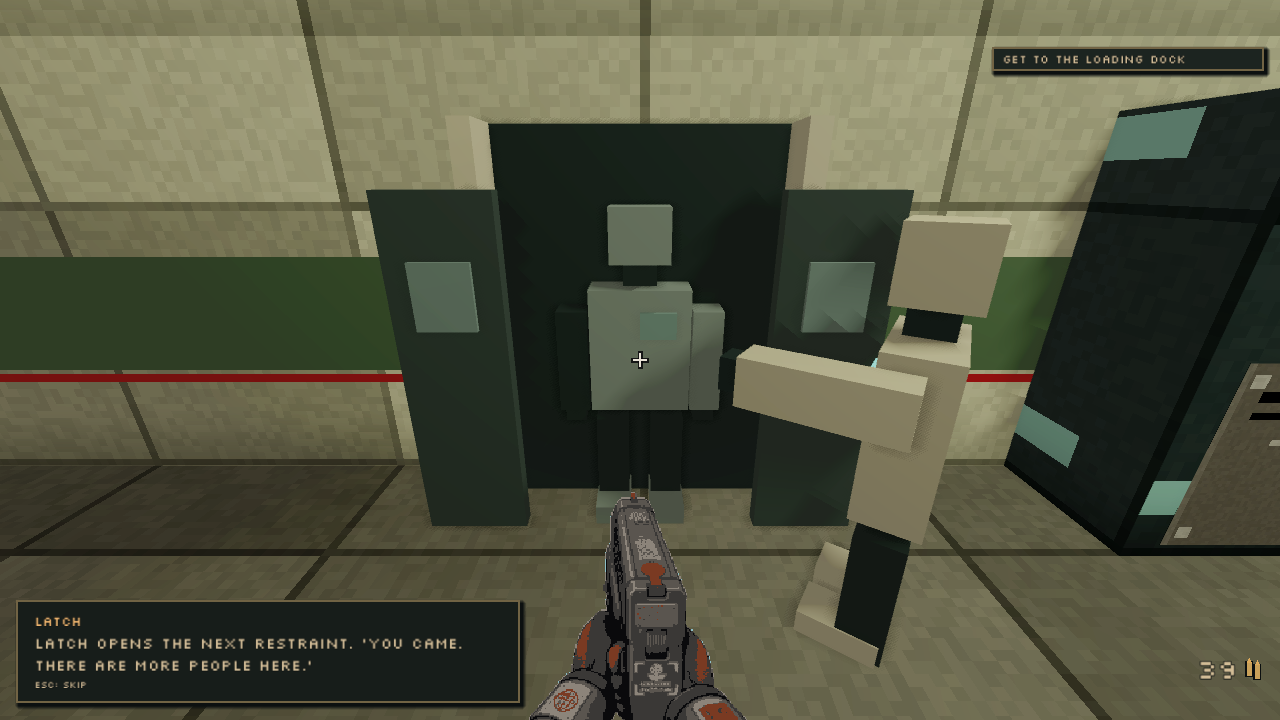
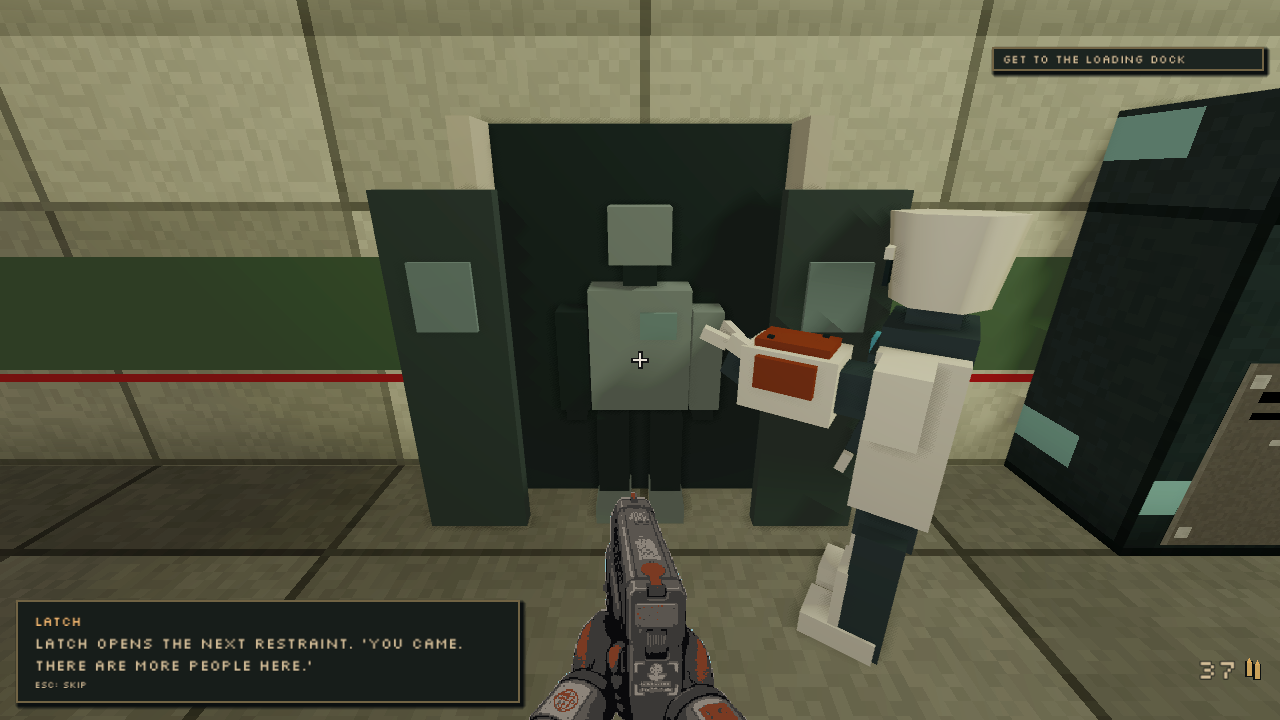
feat: give Latch a distinct repaired silhouette
Use one workshop-aligned renderer for the restrained figure and moving ally, including a voluntary release hand pose. Keep the server-owned handoff, add rendered evidence at encounter distances, and leave distant first-player recognition as an explicit M02 gate.

Changed region(s): [[0.5312, 0.275, 0.8125, 0.9167], [0.9375, 0.9167, 0.9688, 0.9472]]

diff --git a/docs/plans/m02-latch-visual-identity.md b/docs/plans/m02-latch-visual-identity.md
@@ -1,0 +1,73 @@
+# M02 Latch visual identity
+
+**Status:** implemented in draft work, 2026-09-28. Local visual refinement on the stacked M02 development branch. Distant recognition and human perceptual review remain open.
+
+## Goal and reason
+
+Give the fixed ward figure and moving server-owned companion one consistent identity at the restraint, during release, and across the processing floor, then measure its readability from the upper gallery. The current shared `LatchView` is a provisional stack of boxes. Its color alone carries too much identity in distant and muted play.
+
+The design follows [cast continuity](../lore/cast.md#visual-continuity) and the [art bible](../ART_STORY_BIBLE.md): a practical midweight free-agent chassis from the M01 workshop, a compact faceted plain head, worn bone enamel, dark steel joints, one muted-cyan square on the upper chest, and visibly unequal forearms with an individual rust repair on the right. Hands should convey chosen action at the second restraint. The figure must stay distinct from issued Union black plates, red optics and seals.
+
+## Boundaries
+
+- Keep the Rust server authoritative for Latch's identity, location, phase, fire and ward outcome. The client only poses the shared rendered figure.
+- Preserve the existing `LatchView` node paths used by the ward, pawn and checks. Preserve the fixed-to-moving handoff, including skip, retry and late spectators.
+- Keep the current M01 opening image and workshop traits as continuity references. This pass makes no final face, voice, age or new faction claim.
+- No new runtime dependency, paid generation, cloud resource, gameplay logic or README expansion. Spend is $0.
+
+## Implementation
+
+Refine `client/scripts/latch_view.gd` using small Godot-native geometry and registered materials. Work at two scales: a compact silhouette to evaluate at gallery distance, and a repaired plate, hand detail and release gesture readable near the restraint. Reuse that one class in `m02_ward.gd` and `player_pawn.gd`; add presentation-only pose input for the second-bay action if needed. Keep object count and material count bounded for every view.
+
+Add focused Godot checks for material, geometry, handed repair, actor layers, gesture and handoff. Extend the existing M02 live route or a small companion route to capture gallery, restraint, release and processing-floor states. Inspect actual rendered stills and motion frames in Godot 4.7.2. Record what was visible and any remaining limits; a headless test cannot certify that a new player recognizes Latch.
+
+## Verification and acceptance
+
+- `tools/godot_check.sh` passes with clean logs and each harness PASS marker.
+- The M02 route passes with a real loopback server. Gallery, restraint, release, following and observer stills are inspected at 1280 by 720, with the existing single-Latch transition assertion retained.
+- Inspect grayscale and normal-color captures for silhouette and allegiance cues. Avoid claims of established human recognition from scripted cameras.
+- Run `tools/qa_tour.sh --publish` for the player-visible change, then inspect the refreshed stills. The README keeps its four selected images and links to deeper docs.
+- No paid service call or cloud apply. The planned visual work is complete when the shared renderer, tests and documented evidence agree. Human fresh-player review remains a later acceptance gate for M02.
+
+## Local progress, 2026-09-28
+
+The shared `LatchView` now has a six-sided compact head with the workshop still's
+pale brow and dark recessed lower face, a square chest patch using the art
+bible's muted cyan, exposed dark joints, pale shoulders and shins, and a wider
+right forearm with a rust repair and side-facing folded edge. Each hand has
+separate segments. The ward release opens the right hand and braces with the
+left arm as Latch opens the other captive's restraint. The server-owned moving
+ally continues to use that same class. No protocol or simulation field changed.
+
+After stacking on gallery first-view head `e6a43fb`, the two-state real
+first-person gallery route and the 20-state M02 motion route passed on a real
+loopback server with zero bots. Together they cover the standing gallery eye
+at about 21 metres, a long ward view, a one-metre restraint close view, a
+roughly five-metre second-bay view, a sixteen-frame handoff strip, and the
+moving ally at roughly four metres. The scripted route traversed the
+Crawler and guard fights, released Latch through a real Use, and observed more
+than ten metres of companion travel. [Inspected stills](../screenshots/m02-latch/README.md)
+show the final close, release and moving appearances. The entry view frames the
+restraint destination through the new opening, but Latch remains a small pale
+mark amid ward equipment at 21 metres. Even the nearer gallery window view
+does not resolve the right repair, patch or hand pose. The character's presence
+is geometrically visible, while identification as Latch and motive to rescue
+remain unproven without fresh-player review.
+
+Focused `test_actor_state.gd` and `test_m02_ward.gd` passed. The latter checks
+the right-only repair, square patch, hand gesture, retry reset, and the existing
+skip and late observer handoff. It also caps the shared procedural chassis at
+40 visual mesh parts. The full `tools/godot_check.sh` passed with clean
+logs on Godot 4.7.2-stable before and after the gallery stack. The first
+expanded tour attempt failed because an overview camera left the joined
+player's aim detached just before Use; a first-person control state was
+inserted and the repeated route passed. These
+are deterministic authoring and rendering checks, not human
+recognition, motion feel or finished character-art approval. External spend is
+$0.
+
+The default `tools/qa_tour.sh --publish` also passed all 32 named states. Its
+contact sheet was inspected. Those arena and menu states do not contain Latch;
+their eight incidental frame differences from bot timing were discarded while
+the current selected README stills remained byte-identical. The M02 Latch
+evidence lives with the ward screenshots, linked above.

diff --git a/docs/screenshots/m02-latch/README.md b/docs/screenshots/m02-latch/README.md
@@ -1,11 +1,13 @@
 # M02 Latch ward evidence
 
-These four unedited 1280 x 720 frames came from the successful 17-state live
-tour at `.agents/qa/m02-latch-live-evidence/` on 2026-09-27 at 15:13 UTC. The
-tour used Godot 4.7.2-stable, OpenGL Compatibility, and an AMD Radeon 780M on
+The first ward evidence came from the successful 17-state live tour at
+`.agents/qa/m02-latch-live-evidence/` on 2026-09-27 at 15:13 UTC. The tour
+used Godot 4.7.2-stable, OpenGL Compatibility, and an AMD Radeon 780M on
 Windows. It connected to a local release server loaded from
 `server/maps/m02-persons-unknown.json` with no bots. The source manifest and
-client/server logs remain in that ignored tour directory. Run the tour with:
+client/server logs remain in that ignored tour directory. The second-bay
+frame below was refreshed by the 2026-09-28 visual route documented later on
+this page. Run the original route with:
 
 ```bash
 FRAGR_QA_MAP_FILE=server/maps/m02-persons-unknown.json \
@@ -22,7 +24,36 @@ tools/qa_tour.sh .agents/qa/m02-latch-live-evidence
 | [Low Water list](low-water-list.png) | The open bay remains in the world while the recall list names Low Water as next. |
 
 The route uses scripted movement and accurate combat aim. Fresh-player
-comprehension, difficulty acceptance, finished character art, and a fighting
-companion remain open. The second bay uses a detached capture camera within the
-joined local session, not a separate spectator client. The 17-state source
+comprehension, difficulty acceptance, and finished character art remain open.
+The companion's combat implementation is in draft review. The second bay uses
+a detached capture camera within the joined local session, not a separate
+spectator client. The 17-state source
 manifest also records dock departure and server record status `complete`.
+
+## Shared Latch chassis review, 2026-09-28
+
+The [visual identity plan](../../plans/m02-latch-visual-identity.md) refines the
+shared ward and moving-ally renderer. The final 20-state live route in
+`client/qa/m02-latch-motion.json` passed on Windows with Godot 4.7.2-stable,
+AMD Radeon 780M OpenGL Compatibility and a local M02 release server, with no
+bots. The route inspected the same Latch at the close restraint, second bay and
+moving floor position. Source frames and logs are under ignored
+`.agents/qa/m02-latch-gallery-final/`. It uses the lowered-sill map from the
+[gallery first-view pass](../../plans/m02-gallery-first-view.md).
+
+| Frame | What it shows |
+|---|---|
+| [Close restraint](latch-close.png) | About one metre from Latch: pale faceted head and dark lower face, square cyan chest patch, individual rust repair on the right forearm, and separate fingers. The first-person gun obscures the feet and the frame clips the top of the head. |
+| [Second bay open](second-bay-open.png) | The same figure reaches to the other captive's restraint after the server release. The opened hand and arm read at about five metres; the ward's fixed figure is still the visible Latch in this phase. |
+| [Moving ally](latch-floor-observer.png) | A roughly four-metre observer view of the server-owned ally on the processing-floor approach, after the fixed figure has yielded. This rear-side view keeps the pale head, dark joints and unequal arms but does not show the chest patch clearly. |
+
+The handoff strip has sixteen live frames and asserts the transition to one
+visible Latch. Skip, retry and late-join projection also have Godot checks.
+The same lowered-sill map and new Latch renderer passed the separate
+two-state `m02-gallery-first-view.json` route. At the standing entry eye about
+21 metres away, the window frames the restraint destination, while Latch is
+only a small pale mark amid the cabinet and machine shapes. The nearer window
+view reveals the body but the repair, patch and hand pose do not resolve at
+that distance. The [gallery comparison](../m02-gallery/README.md) gives the
+authoritative layout context. These scripted cameras do not establish that a
+new player notices or understands the reunion. That human gate remains open.

diff --git a/docs/plans/README.md b/docs/plans/README.md
@@ -18,6 +18,7 @@ Status words: **proposed** (a design awaiting Nick's decision; directs no work),
 | Plan | Status | One-liner |
 |---|---|---|
 | [`m02-gallery-first-view.md`](./m02-gallery-first-view.md) | **implemented** | Open and prove the M02 gallery's first sightline to Latch's restraint frame without bypassing the opening fight or stair route; player recognition remains open. |
+| [`m02-latch-visual-identity.md`](./m02-latch-visual-identity.md) | **implemented** | Give the ward figure and moving ally one repaired Latch silhouette; distant recognition and human review remain open. |
 | [`m02-ward-soundscape.md`](./m02-ward-soundscape.md) | **in flight**, [draft #280](https://github.com/blisspixel/fragr/pull/280) | Give M02's correction ward and processing floor four state-driven, lore-aligned mechanical cues with a bounded asset and distribution gate. |
 | [`m02-live-cue-listening-gate.md`](./m02-live-cue-listening-gate.md) | **in flight**, [draft #281](https://github.com/blisspixel/fragr/pull/281) | Record the real first-person M02 cue sequence for a hardware listening review. |
 | [`m02-processing-floor-roster.md`](./m02-processing-floor-roster.md) | **implemented**, [draft #279](https://github.com/blisspixel/fragr/pull/279) | Stage the accepted ten-enemy M02 floor crest, measure ordinary-health Standard and Severe scripted clears, and preserve the optional evacuation trigger. Unsteered player review remains. |
